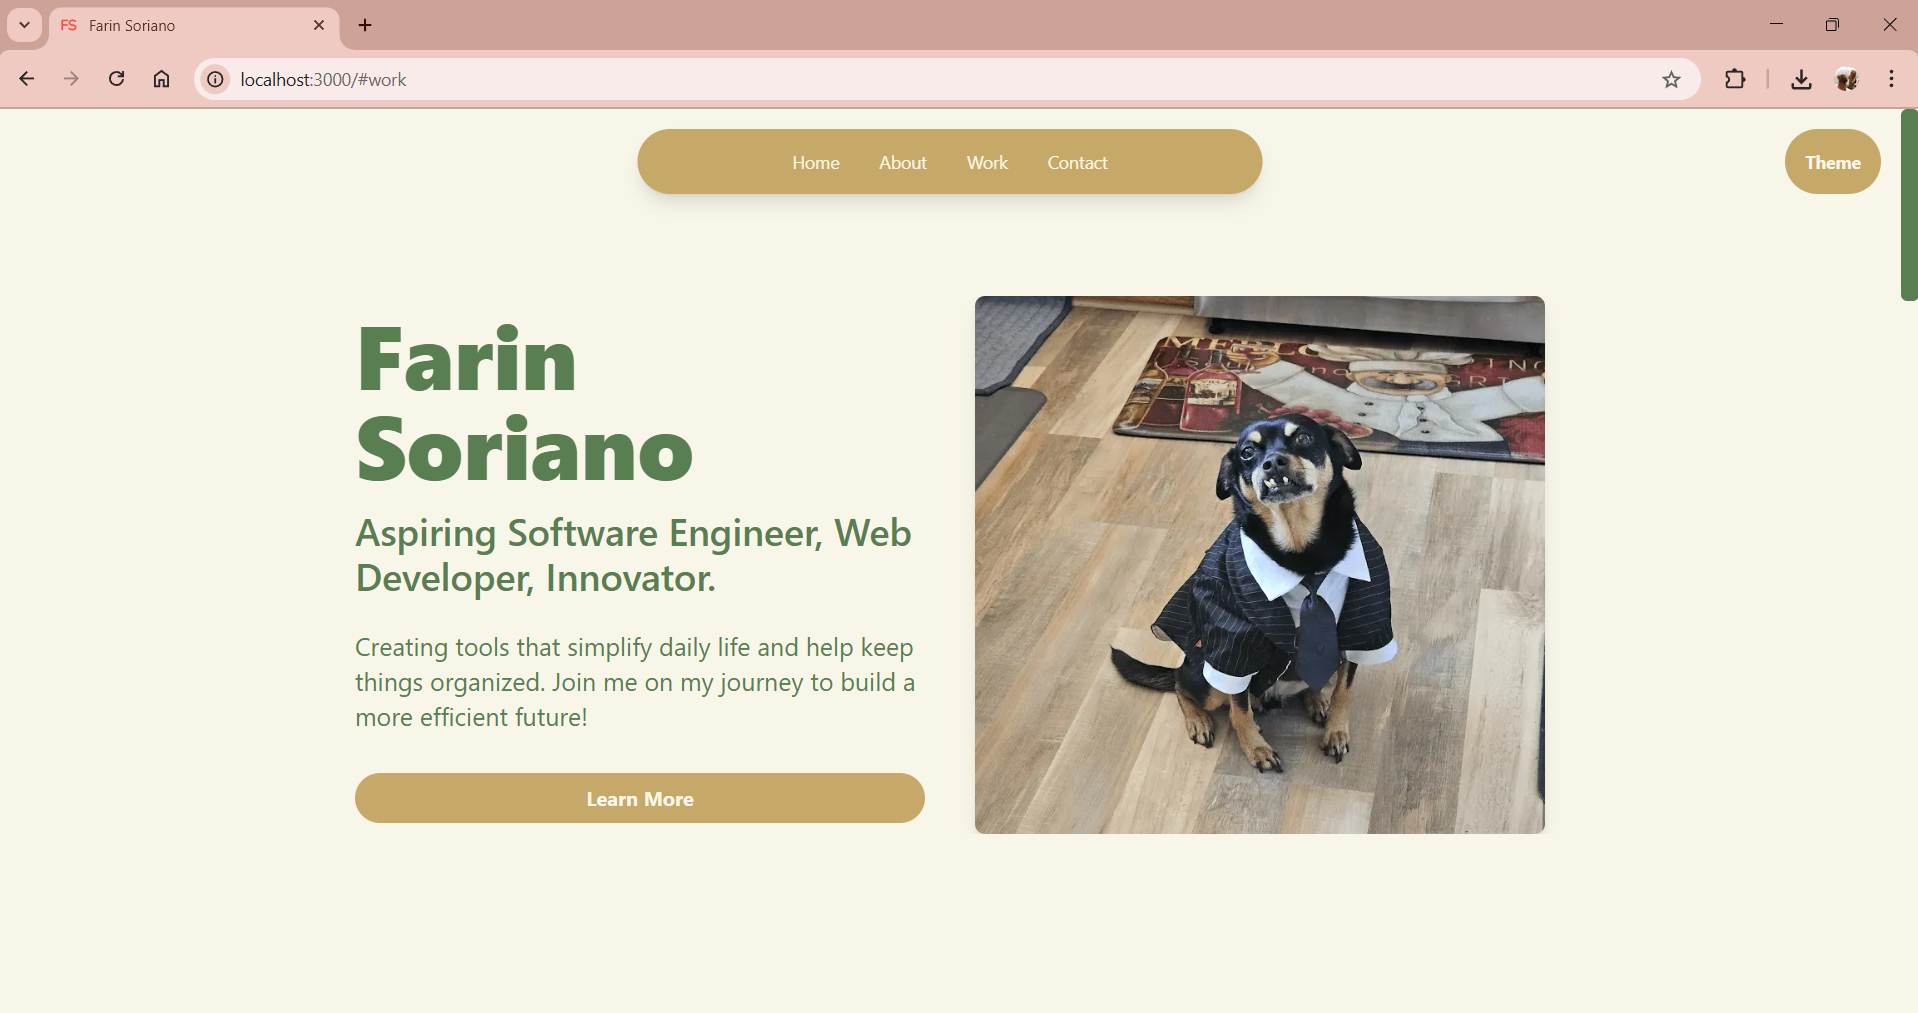
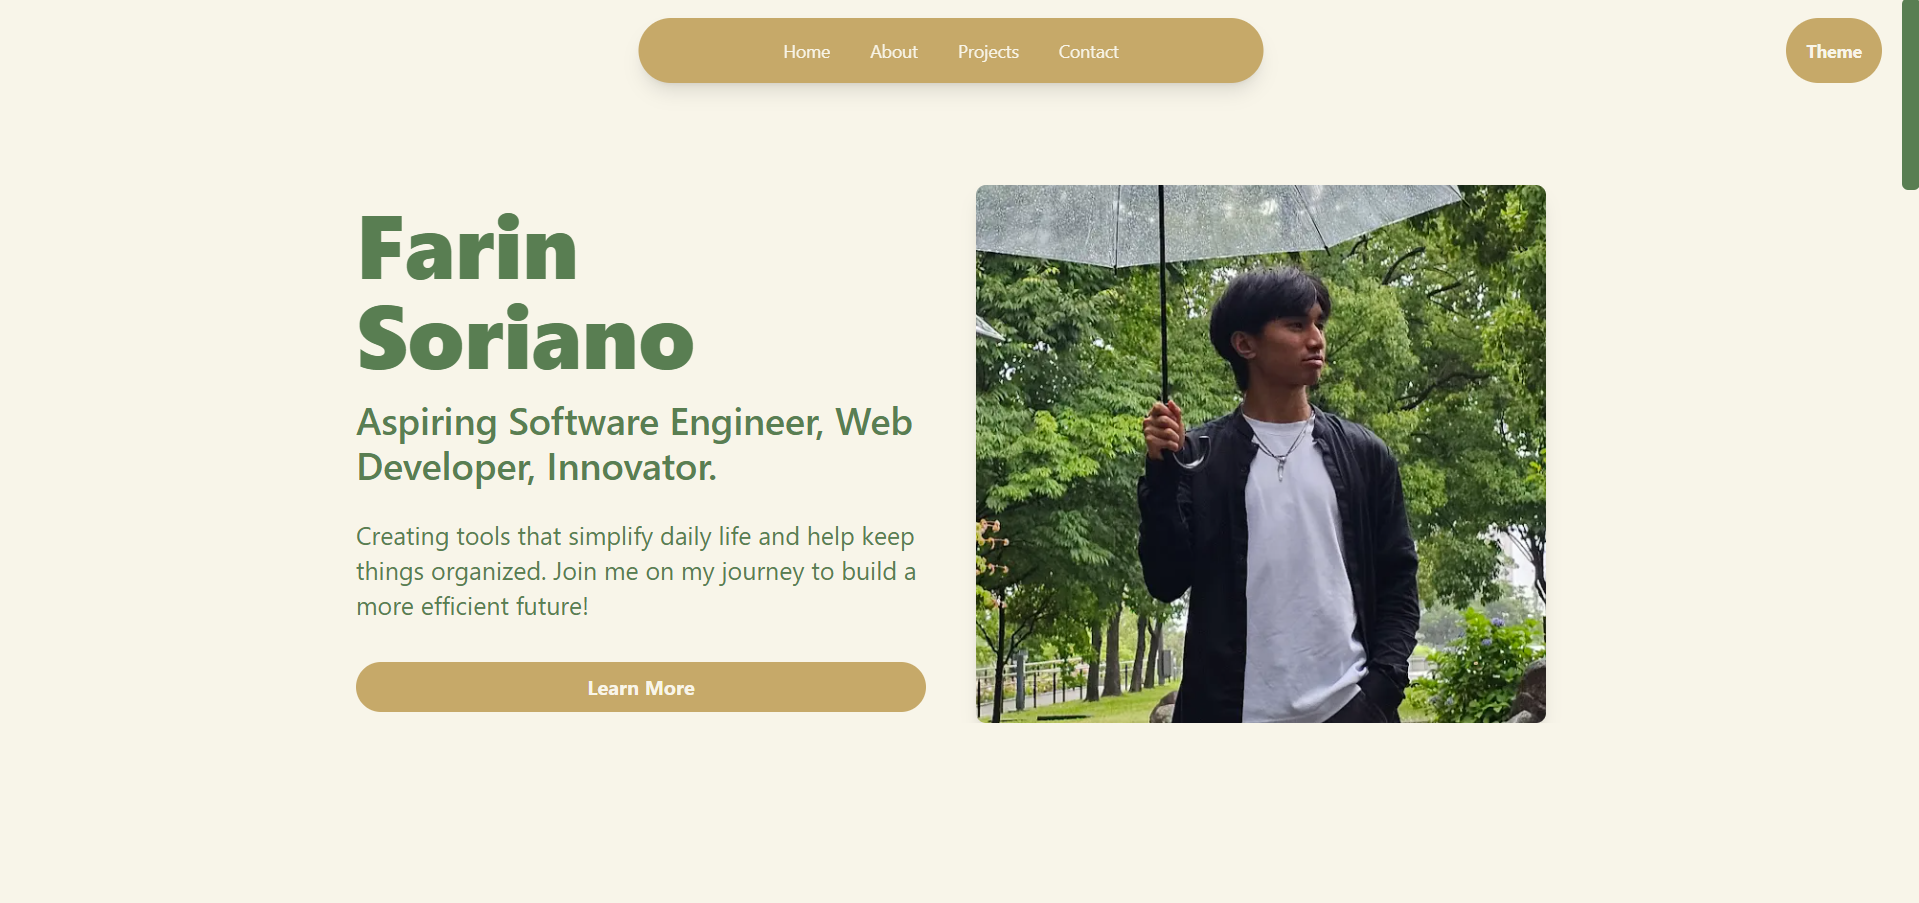
updated projects section and hero image

diff --git a/src/components/ProjectCarousel.js b/src/components/ProjectCarousel.js
@@ -15,9 +15,15 @@ export default function WorkCarousel() {
         />,
         <CarouselSlide
             key="2"
-            title="Fusion Project"
-            content="Developing a collaborative web platform that connects individuals in the STEM field to share and find 
+            title="Project Nexus (In Progress!)"
+            content="A collaborative web platform that connects individuals in the STEM field to share and find 
                     collaborative projects and gain industry experience"
+            image="/smeagol.png"
+        />,
+        <CarouselSlide
+            key="3"
+            title="HobbyClock (In Progress!)"
+            content="An application designed to help users track the time spent on hobbies and activities, promoting a healthy and balanced lifestyle."
             image="/smeagol.png"
         />
     ];

diff --git a/src/components/Hero.js b/src/components/Hero.js
@@ -27,7 +27,7 @@ export default function Hero() {
                 {/* Right side for image */}
                 <div className="w-1/2 flex justify-center items-center overflow-hidden px-5">
                     <Image
-                        src="/smeagol.png"
+                        src="/umbrella.png"
                         alt="Smeagol"
                         width={1000} // You can adjust the width here
                         height={1000} // Height of the image

diff --git a/src/components/CarouselSlide.js b/src/components/CarouselSlide.js
@@ -14,7 +14,7 @@ export default function CarouselSlide({ title, content, image, link }) {
             </h1>
             <Image
                 src= { image }
-                alt="Smeagol"
+                alt="Project image"
                 width={1000}
                 height={1000}
                 className="object-cover h-[420px] opacity-75 hover:opacity-50 transition-opacity duration-300 ease-in-out"
